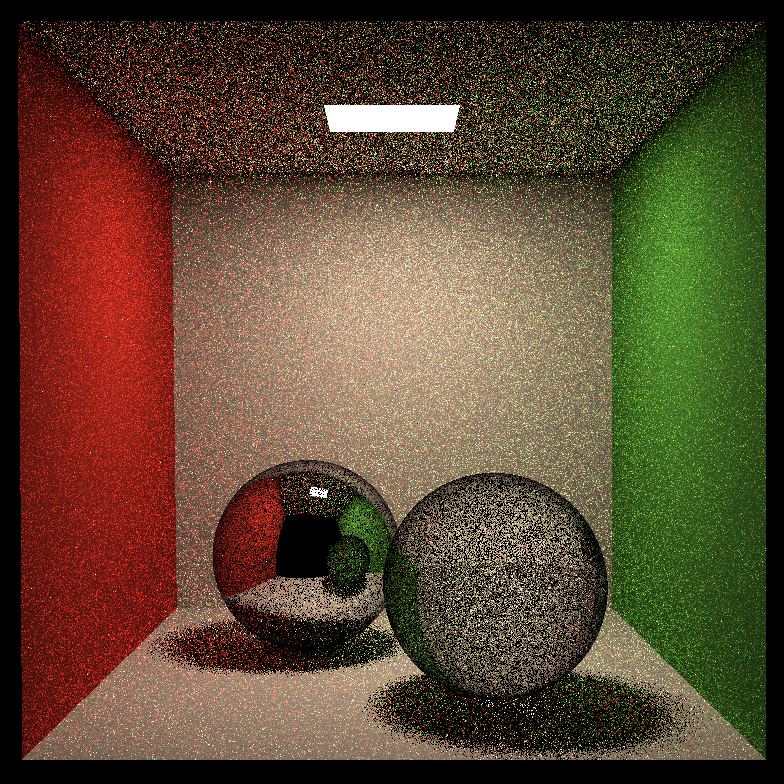
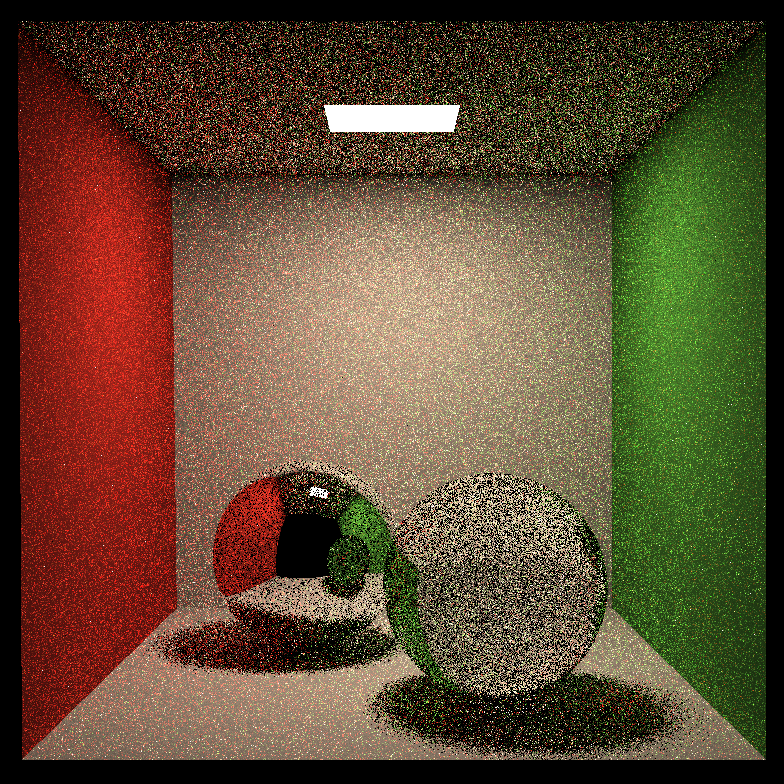
bugfix: fix the issue the shading point at the grazing angle is too dark

diff --git a/assignment7/Material.hpp b/assignment7/Material.hpp
@@ -214,12 +214,12 @@ Vector3f Material::eval(const Vector3f &wi, const Vector3f &wo, const Vector3f &
         }
         case SPECULAR:
         {
-            return Ks;
+            return Ks / std::abs(dotProduct(wi, N));
             break;
         }
         case GLASS:
         {
-            return Ks;
+            return Ks / std::abs(dotProduct(wi, N));
             break;
         }
     }
